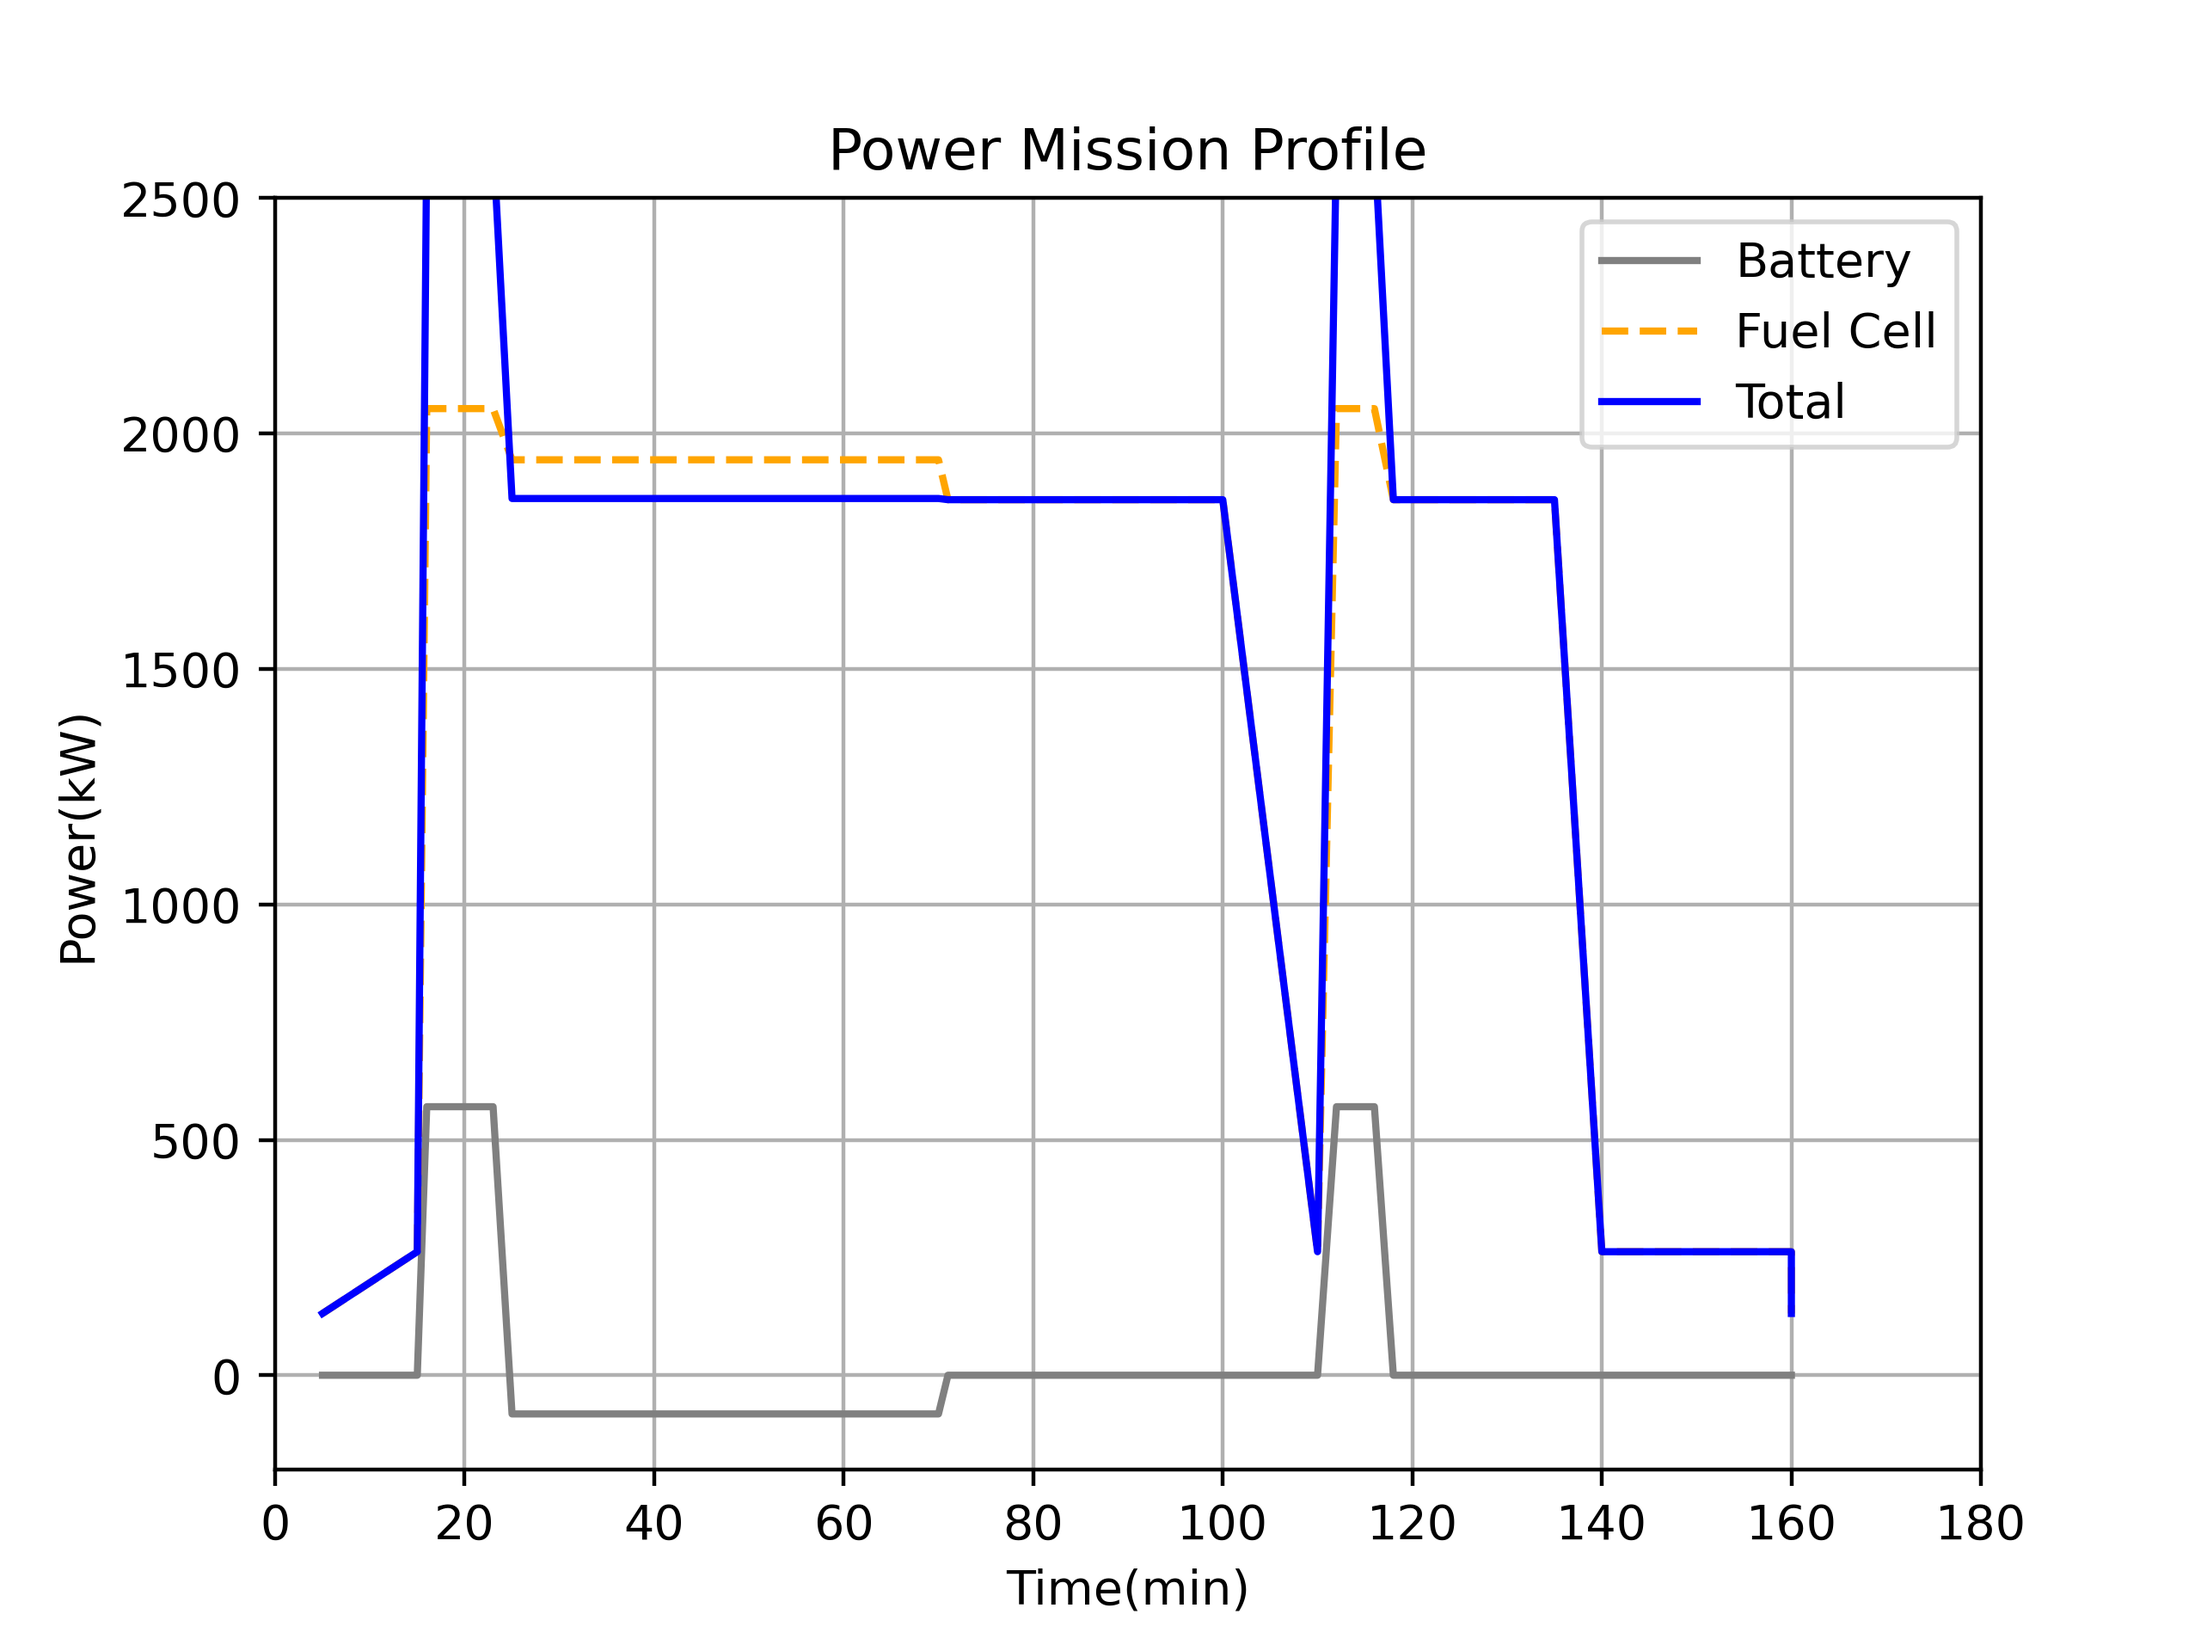
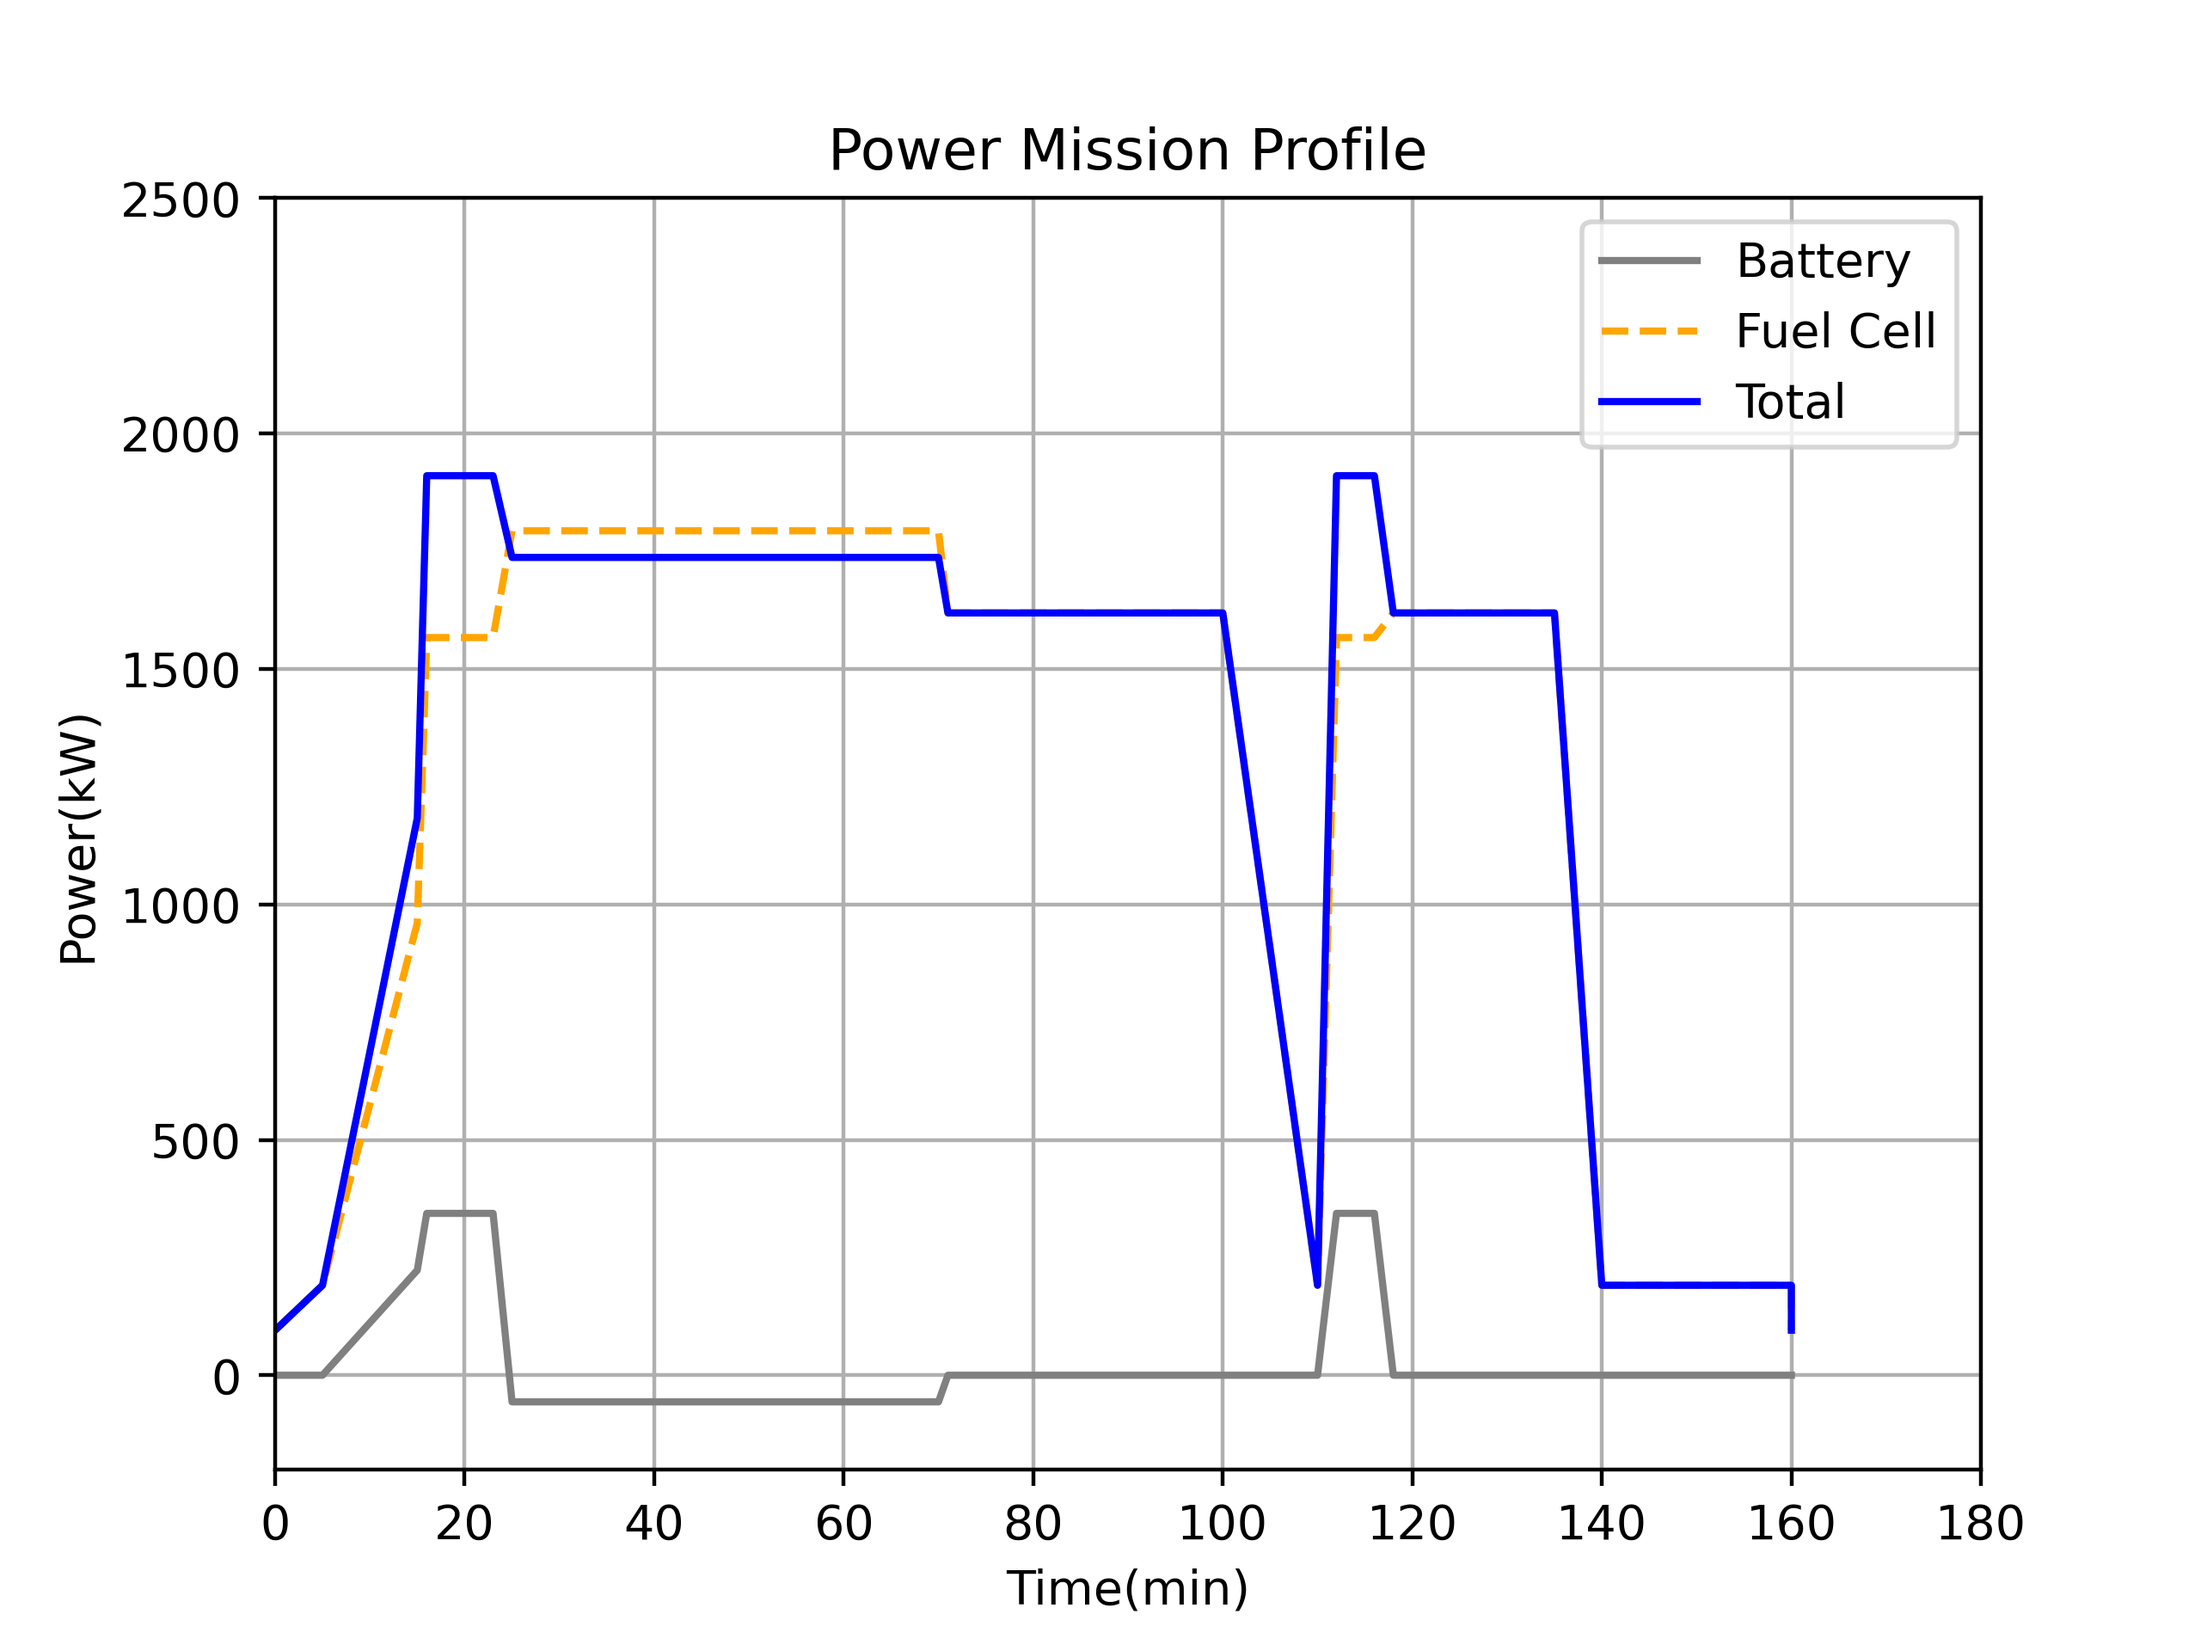
update

diff --git a/app/hydrogenfuelcellsystem_SH.py b/app/hydrogenfuelcellsystem_SH.py
@@ -22,7 +22,7 @@ class FuelCellSizing:
     def __init__(self):
         # self.mtom_a = 8600
         # self.mtom_b = 0
-        self.MTOM = 8600
+        self.MTOM = 8500
         self.PFC1 = 200000 # unit(W)
         self.ptotal_a = 0
         self.ptotal_b = 0
@@ -85,11 +85,11 @@ class FuelCellSizing:
         self.rhocomp = 2000
 
         #Hydrogen fuel mass
-        self.Rtotal = 650000
+        self.Rtotal = 600000
         self.hcruise = 3000
         self.hTO = 0
         self.Vv = 7
-        self.Vclimb = 70
+        self.Vclimb = 100
         self.eta_prop = 0.8
         self.L_D1 = 14.5 # cruise Lift_to_Drag case1(climb),2(cruise),3(descent)
         self.L_D2 = 0
@@ -105,7 +105,7 @@ class FuelCellSizing:
         self.W_S_imp = Conversions.pa_psf(self, 2830.24, "psf")               ## SH:~$ Wing loading CHANGED(2830.24 -> 2755) to match origianl A/C Specification
         self.AR_wing = 10 
         self.t_c = 0.2
-        self.nz = 6.*1.5  ##3.8                           ################ SH:~$ 1.5 is TOO LOW -> n_ult = SF*(loadfactor) = 1.25*3
+        self.nz = 3*1.5  ##3.8                           ################ SH:~$ 1.5 is TOO LOW -> n_ult = SF*(loadfactor) = 1.25*3
         self.lc4 = 0
         self.lam = 0.42
         self.Vcruise = 110 # m/s
@@ -148,9 +148,9 @@ class FuelCellSizing:
 
         #Aircraft sizing
         self.OEMmisc = 0 #2086.39 #2574.09
-        self.OEMmisc_ = 100#2000 # 1000 # 100
+        self.OEMmisc_ = 0 #2000 # 1000 # 100
 
-        self.mpayload = 2400
+        self.mpayload = 2200
         self.rhobatt = 0.3 #[kWh/kg]
 
         #hybrid parameter
